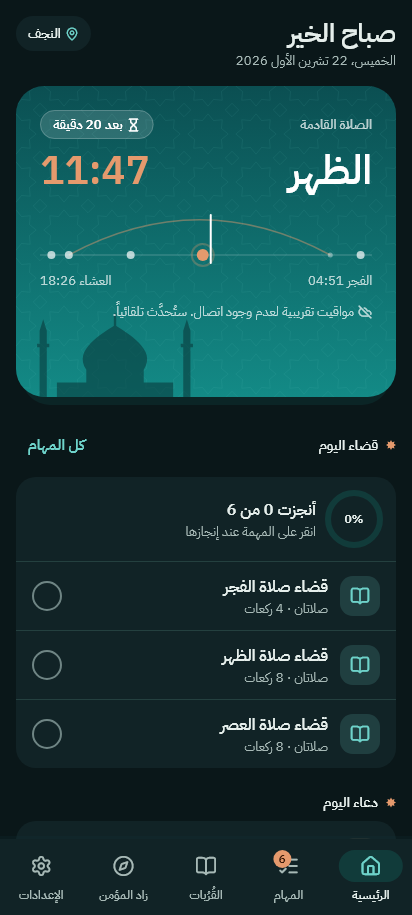
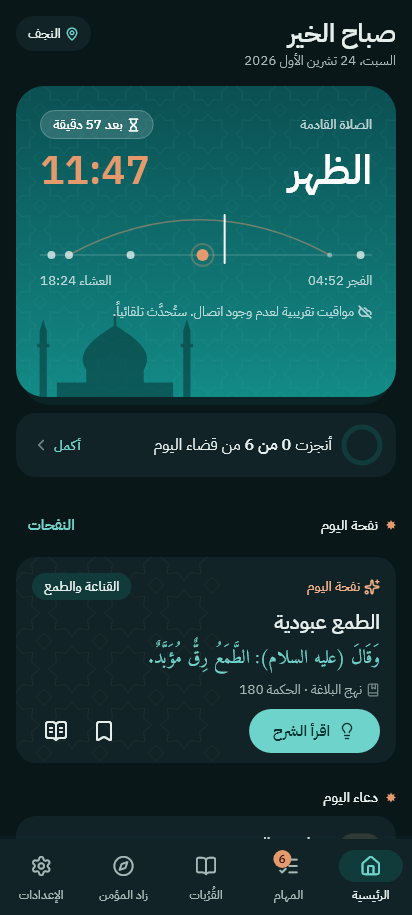
الإصدار 1.1.0: نفحة اليوم، اكتشف الترابط، دفتر الأثر، وصور محدّثة

diff --git a/README.md b/README.md
@@ -35,6 +35,14 @@
   <img src="screenshots/home_dark.png" width="240" alt="الوضع الداكن">
 </p>
 
+### الجديد في 1.1.0
+
+<p align="center">
+  <img src="screenshots/nafha_light.png" width="240" alt="نفحة اليوم">
+  <img src="screenshots/topic_light.png" width="240" alt="اكتشف الترابط">
+  <img src="screenshots/notebook_light.png" width="240" alt="دفتر الأثر">
+</p>
+
 ## ✨ المميزات
 
 ### قضاء الصلاة والصيام
@@ -42,9 +50,15 @@
 - يوزّع التطبيق القضاء على الأيام، فتجد كل صباح مهام اليوم فقط.
 - كلما أنجزت مهمة نقص رصيدك تلقائياً، وترى تقدّمك.
 
+### رحلة المعرفة (جديد)
+- **نفحة اليوم**: كل يوم نص موثق من نهج البلاغة أو الصحيفة السجادية أو كلام الإمام السجاد (ع)، يُقرأ في أربع مراحل: النص، ثم شرح مختصر، ثم سؤال للتأمل، ثم حفظ الفائدة. الشرح مكتوب منفصلاً عن النص الأصلي، ولا تتكرر النفحة في أيام متقاربة.
+- **اكتشف الترابط**: موضوعات مثل الصبر والعدل والعفو تجمع النصوص المتصلة بها من الكتب المختلفة، مع بيان نوع كل علاقة: موضوعية، أو تفسيرية، أو نصية.
+- **دفتر الأثر**: احفظ أي نص مع ملاحظتك الخاصة، ورتّبه في موضوعات ومجموعات، واطلب تذكيراً به. ويعيد إليك التطبيق ما كتبته بعد شهر.
+
 ### الأذان ومواقيت الصلاة
 - مواقيت لكل محافظات العراق وفق المذهب الجعفري، وتعمل دون إنترنت.
 - إشعار أذان الفجر والظهر والمغرب حتى والتطبيق مغلق.
+- في أندرويد 14 وما بعده: اسمح للتطبيق بـ«المنبّهات والتذكيرات» ليصل الأذان في وقته بالضبط. يذكّرك التطبيق بذلك إن لم يكن مفعّلاً.
 - اختيار المؤذن، ومنهم السيد هاني الموسوي.
 - دعاء اليوم من أدعية الإمام زين العابدين (ع) كل صباح.
 
